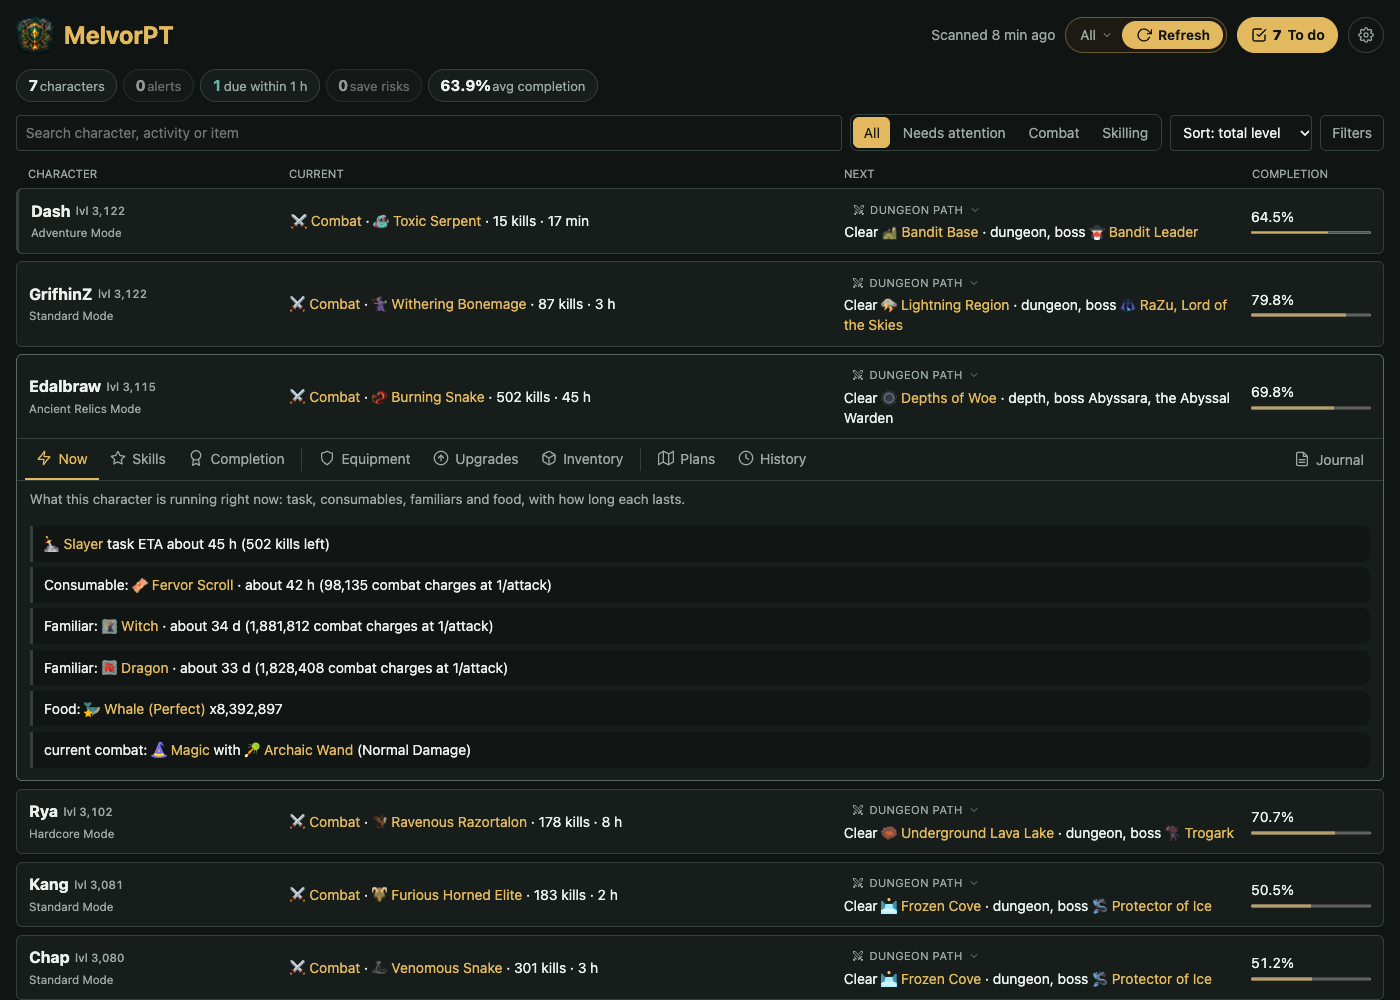
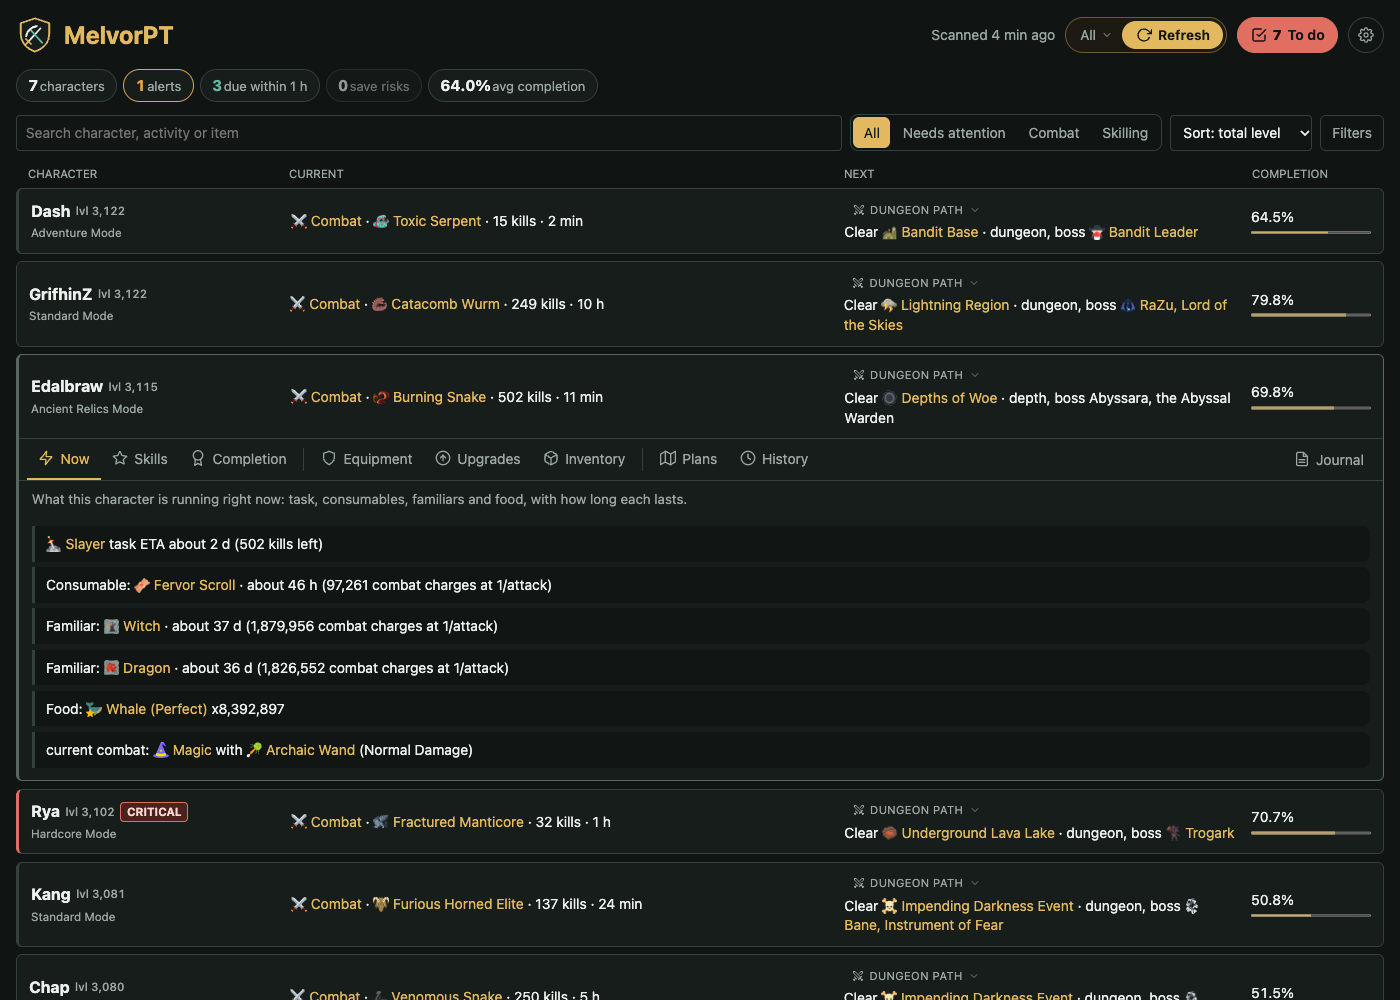
feat(brand): flat SVG mark replaces the painted crest
A shield with a crossed pickaxe and sword in the dashboard palette, one 1 KB SVG for the header, the favicon and the
README (the 2.5 MB crest and its favicon are removed). README screenshot refreshed.

diff --git a/melvor-report.js b/melvor-report.js
@@ -1914,13 +1914,13 @@ function renderDashboard(snap) {
 <html lang="fr">
 <meta charset="utf-8">
 <meta name="viewport" content="width=device-width, initial-scale=1">
-<link rel="icon" type="image/png" href="/assets/favicon.png">
+<link rel="icon" type="image/svg+xml" href="/assets/mpt-mark.svg">
 <title>MelvorPT</title>
 <style>
 ${DASHBOARD_CSS}
 </style>
 <body>
-<header class="topbar"><div class="brand"><img src="/assets/mpt-crest.png" alt=""><h1>MelvorPT</h1></div>
+<header class="topbar"><div class="brand"><img src="/assets/mpt-mark.svg" alt=""><h1>MelvorPT</h1></div>
 <div class="top-actions"><span id="scanTime" class="muted"></span>
 <div class="split" aria-label="Refresh journal"><button id="refreshCharacter" type="button" class="split-pick" aria-haspopup="menu" aria-label="Character to refresh"><span>All</span><svg class="caret" viewBox="0 0 24 24" aria-hidden="true"><polyline points="6 9 12 15 18 9"/></svg></button><button id="refreshButton" type="button"><svg viewBox="0 0 24 24" aria-hidden="true"><polyline points="23 4 23 10 17 10"/><path d="M20.49 15a9 9 0 1 1-2.12-9.36L23 10"/></svg><span>Refresh</span></button></div>
 <button id="todoButton" class="todo-pill" type="button" aria-haspopup="dialog"><svg viewBox="0 0 24 24" aria-hidden="true"><polyline points="9 11 12 14 22 4"/><path d="M21 12v7a2 2 0 0 1-2 2H5a2 2 0 0 1-2-2V5a2 2 0 0 1 2-2h11"/></svg><b id="todoCount">0</b><span class="tab-label">To do</span></button>
@@ -2016,8 +2016,8 @@ function runJournalServer() {
         ? send(res, 200, renderDashboard({ ...snapshot, goals: readGoals() }), 'text/html; charset=utf-8')
         : send(res, 404, JSON.stringify({ error: 'journal missing; run journal --record first' }));
     }
-    if (req.method === 'GET' && ['/assets/mpt-crest.png', '/assets/favicon.png'].includes(url.pathname)) {
-      try { return send(res, 200, fs.readFileSync(path.join(__dirname, url.pathname)), 'image/png'); } catch { return send(res, 404, JSON.stringify({ error: 'not found' })); }
+    if (req.method === 'GET' && url.pathname === '/assets/mpt-mark.svg') {
+      try { return send(res, 200, fs.readFileSync(path.join(__dirname, url.pathname)), 'image/svg+xml'); } catch { return send(res, 404, JSON.stringify({ error: 'not found' })); }
     }
     if (req.method === 'GET' && /^\/[A-Za-z0-9_-]+\.md$/.test(url.pathname)) {
       const name = path.basename(url.pathname, '.md');

diff --git a/README.md b/README.md
@@ -1,6 +1,6 @@
 # MelvorPT
 
-<p align="center"><img src="assets/mpt-crest.png" width="160" alt="MelvorPT crest"></p>
+<p align="center"><img src="assets/mpt-mark.svg" width="120" alt="MelvorPT"></p>
 
 <p align="center"><b>Your whole Melvor Idle account, one private dashboard, with an AI co-pilot that never risks your save.</b></p>
 
